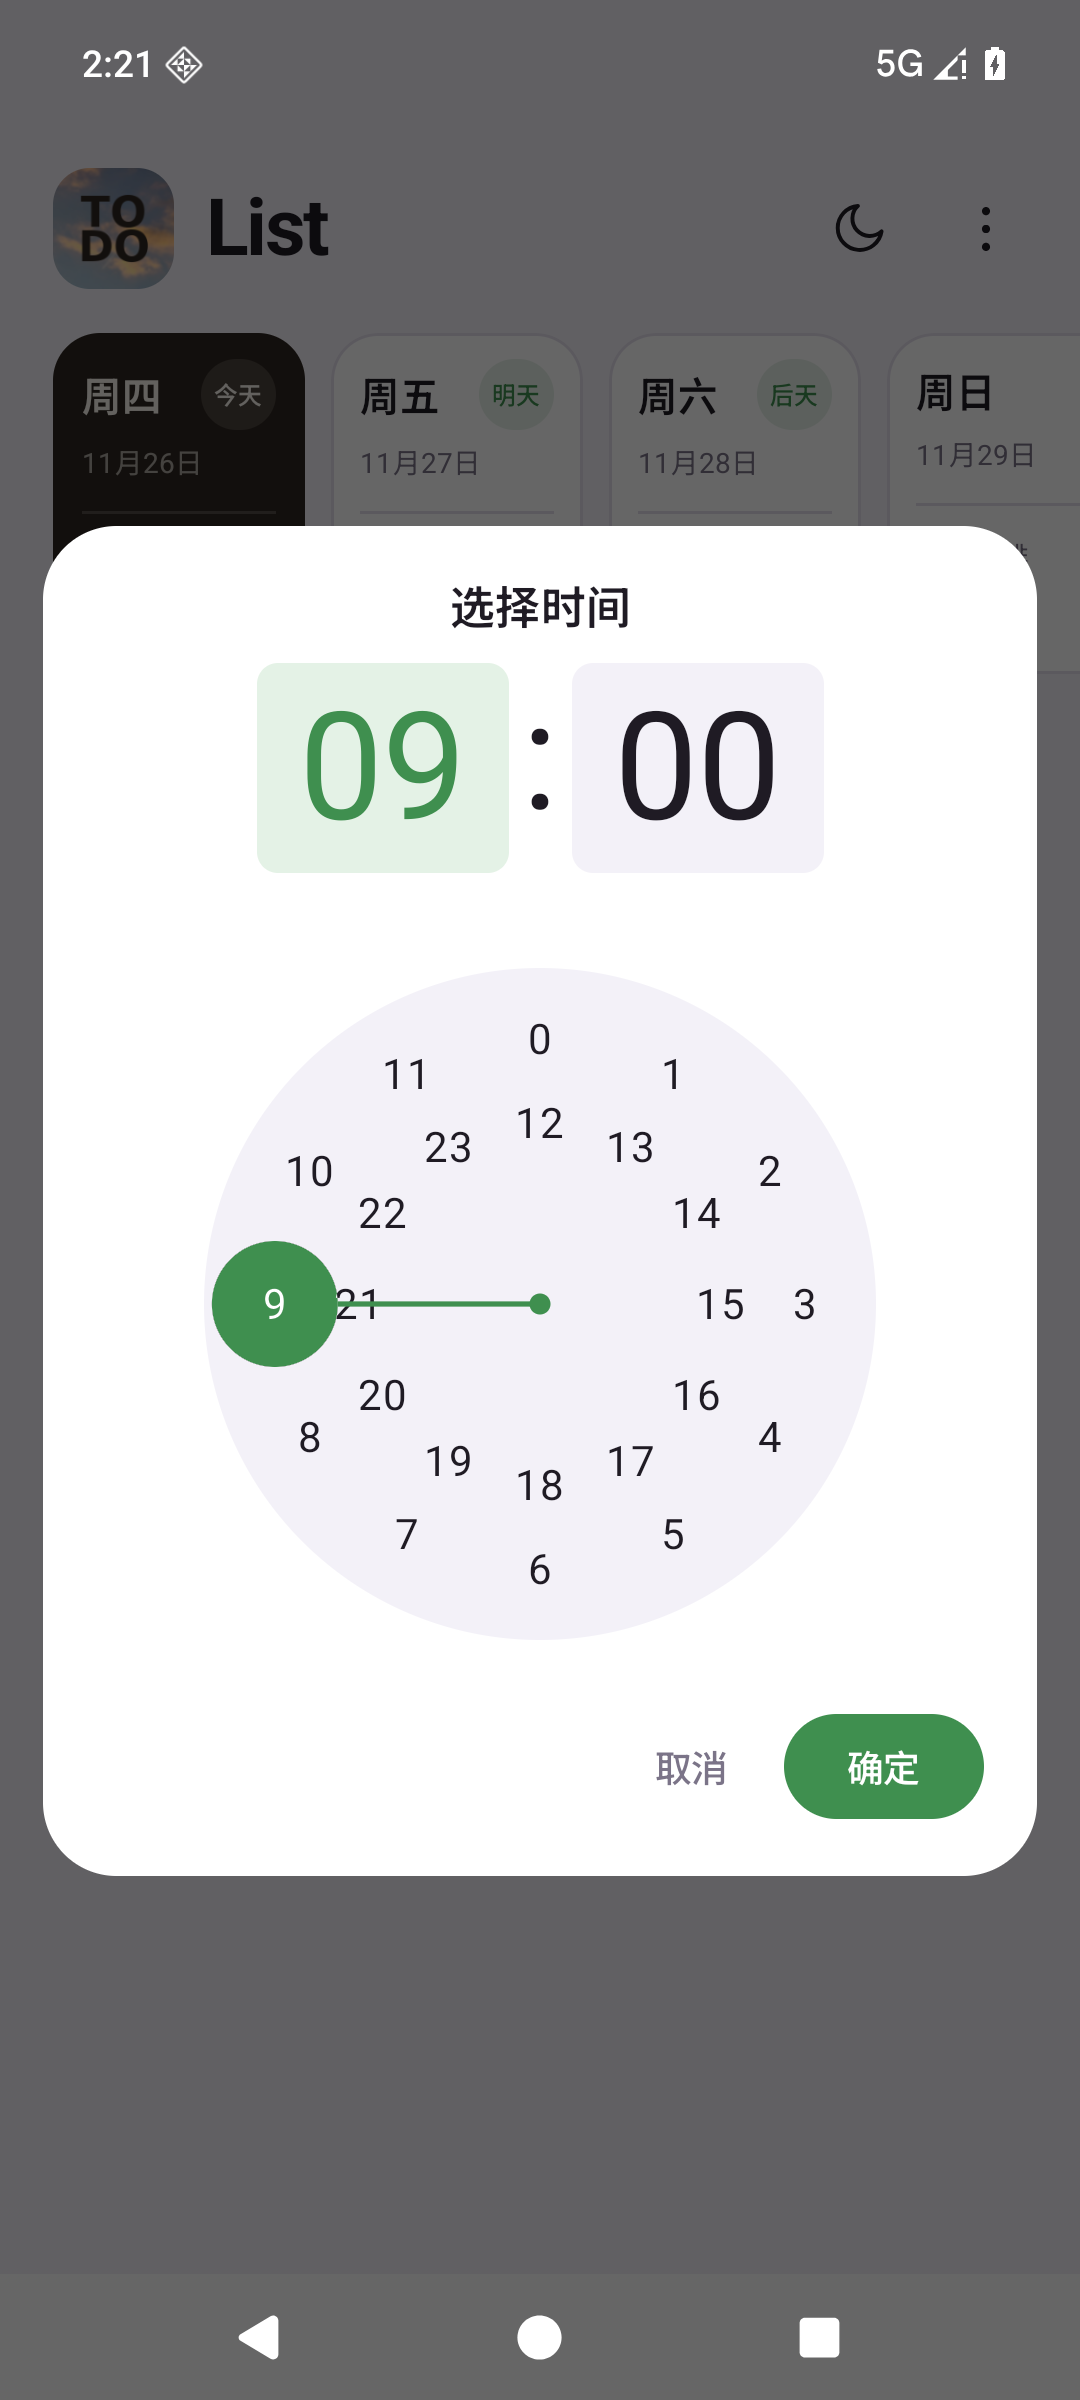
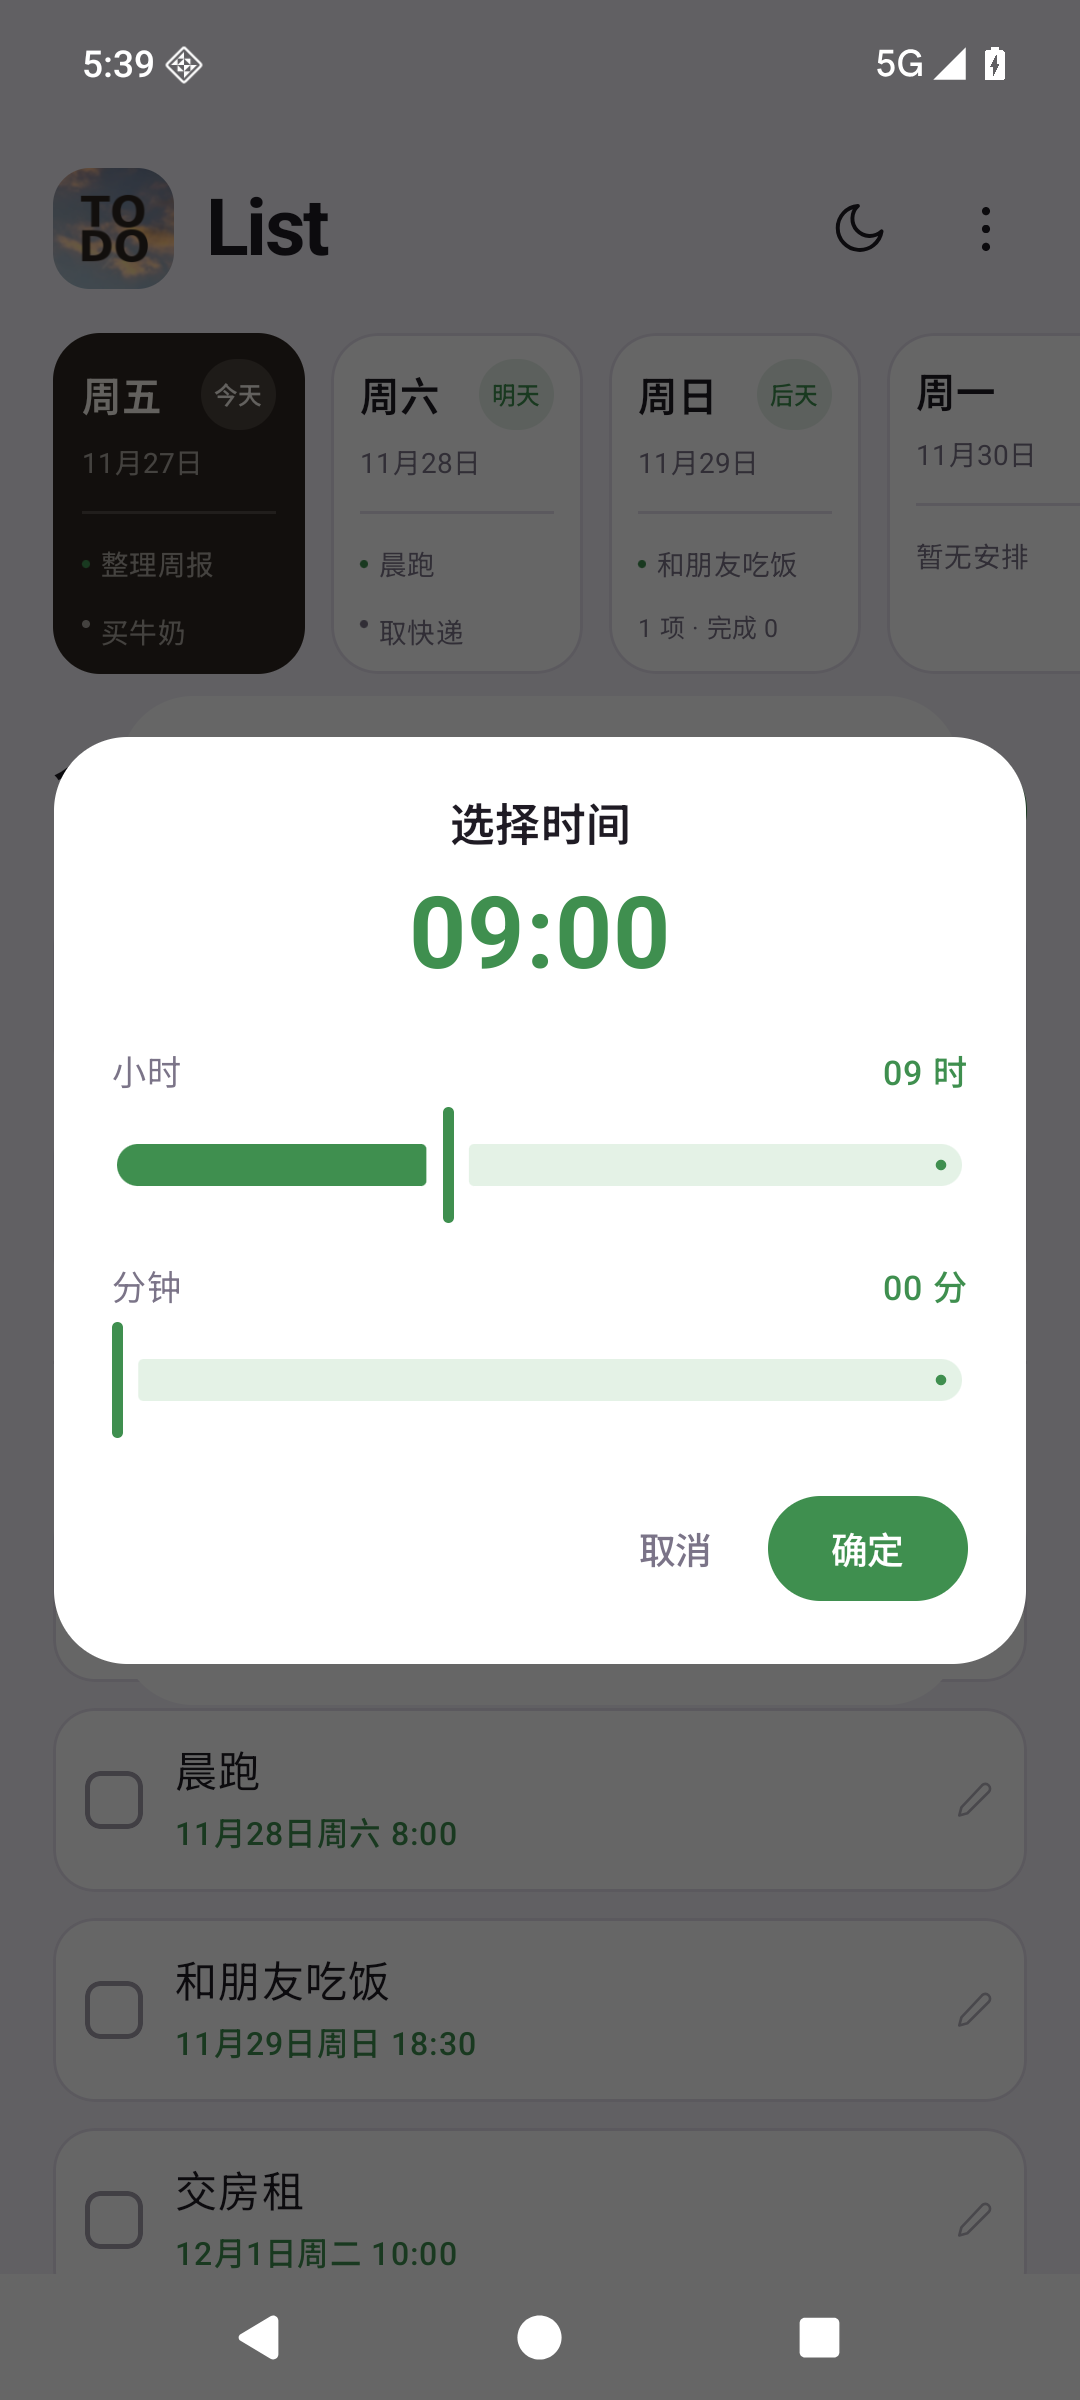
feat(ui): 时间选择改为小时/分钟滑动条，去掉未完成汇总区的说明文字（v1.2.2）

diff --git a/app/src/main/java/com/dswork/list/ui/HomeScreen.kt b/app/src/main/java/com/dswork/list/ui/HomeScreen.kt
@@ -31,15 +31,13 @@ import androidx.compose.material3.Button
 import androidx.compose.material3.ButtonDefaults
 import androidx.compose.material3.DropdownMenu
 import androidx.compose.material3.DropdownMenuItem
-import androidx.compose.material3.ExperimentalMaterial3Api
 import androidx.compose.material3.Icon
 import androidx.compose.material3.IconButton
 import androidx.compose.material3.OutlinedTextField
+import androidx.compose.material3.Slider
 import androidx.compose.material3.Surface
 import androidx.compose.material3.Text
 import androidx.compose.material3.TextButton
-import androidx.compose.material3.TimePicker
-import androidx.compose.material3.rememberTimePickerState
 import androidx.compose.runtime.Composable
 import androidx.compose.runtime.getValue
 import androidx.compose.runtime.mutableStateOf
@@ -69,6 +67,7 @@ import com.dswork.list.data.relativeLabel
 import com.dswork.list.data.weekdayCn
 import com.dswork.list.ui.theme.LocalListPalette
 import java.time.LocalDate
+import kotlin.math.roundToInt
 
 @Composable
 fun HomeScreen(
@@ -572,11 +571,6 @@ private fun UnfinishedHeader(count: Int) {
                 color = palette.textSecondary,
             )
         }
-        Text(
-            text = "今天起 7 天内所有没做完的事项（含选中的那天）",
-            fontSize = 11.5.sp,
-            color = palette.textSecondary,
-        )
     }
 }
 
@@ -702,7 +696,6 @@ private fun TodoEditorDialog(
     }
 }
 
-@OptIn(ExperimentalMaterial3Api::class)
 @Composable
 private fun ListTimePickerDialog(
     initialMinutes: Int,
@@ -710,11 +703,8 @@ private fun ListTimePickerDialog(
     onConfirm: (minutes: Int) -> Unit,
 ) {
     val palette = LocalListPalette.current
-    val state = rememberTimePickerState(
-        initialHour = initialMinutes / 60,
-        initialMinute = initialMinutes % 60,
-        is24Hour = true,
-    )
+    var hour by remember { mutableStateOf(initialMinutes / 60) }
+    var minute by remember { mutableStateOf(initialMinutes % 60) }
 
     Dialog(
         onDismissRequest = onDismiss,
@@ -723,10 +713,10 @@ private fun ListTimePickerDialog(
         Surface(
             shape = RoundedCornerShape(28.dp),
             color = palette.card,
-            modifier = Modifier.fillMaxWidth(0.92f),
+            modifier = Modifier.fillMaxWidth(0.9f),
         ) {
             Column(
-                modifier = Modifier.padding(horizontal = 20.dp, vertical = 18.dp),
+                modifier = Modifier.padding(horizontal = 22.dp, vertical = 20.dp),
                 horizontalAlignment = Alignment.CenterHorizontally,
             ) {
                 Text(
@@ -735,21 +725,32 @@ private fun ListTimePickerDialog(
                     fontWeight = FontWeight.SemiBold,
                     color = palette.textPrimary,
                 )
-                Spacer(Modifier.height(10.dp))
-                TimePicker(
-                    state = state,
-                    colors = androidx.compose.material3.TimePickerDefaults.colors(
-                        clockDialColor = palette.background,
-                        clockDialSelectedContentColor = Color.White,
-                        clockDialContentColor = palette.textPrimary,
-                        selectorColor = palette.accent,
-                        containerColor = palette.card,
-                        timeSelectorSelectedContainerColor = palette.accentSoft,
-                        timeSelectorSelectedContentColor = palette.accent,
-                        timeSelectorContainerColor = palette.background,
-                        timeSelectorContentColor = palette.textPrimary,
-                    ),
+                Spacer(Modifier.height(8.dp))
+                Text(
+                    text = "%02d:%02d".format(hour, minute),
+                    fontSize = 38.sp,
+                    fontWeight = FontWeight.Bold,
+                    color = palette.accent,
                 )
+                Spacer(Modifier.height(18.dp))
+
+                TimeSlider(
+                    label = "小时",
+                    valueText = "%02d 时".format(hour),
+                    value = hour,
+                    valueRange = 0f..23f,
+                    onChange = { hour = it },
+                )
+                Spacer(Modifier.height(10.dp))
+                TimeSlider(
+                    label = "分钟",
+                    valueText = "%02d 分".format(minute),
+                    value = minute,
+                    valueRange = 0f..59f,
+                    onChange = { minute = it },
+                )
+
+                Spacer(Modifier.height(16.dp))
                 Row(
                     modifier = Modifier.fillMaxWidth(),
                     horizontalArrangement = Arrangement.End,
@@ -762,7 +763,7 @@ private fun ListTimePickerDialog(
                     }
                     Spacer(Modifier.width(6.dp))
                     Button(
-                        onClick = { onConfirm(state.hour * 60 + state.minute) },
+                        onClick = { onConfirm(hour * 60 + minute) },
                         colors = ButtonDefaults.buttonColors(containerColor = palette.accent),
                     ) {
                         Text("确定")
@@ -770,5 +771,37 @@ private fun ListTimePickerDialog(
                 }
             }
         }
+    }
+}
+
+@Composable
+private fun TimeSlider(
+    label: String,
+    valueText: String,
+    value: Int,
+    valueRange: ClosedFloatingPointRange<Float>,
+    onChange: (Int) -> Unit,
+) {
+    val palette = LocalListPalette.current
+    Column(modifier = Modifier.fillMaxWidth()) {
+        Row(
+            modifier = Modifier.fillMaxWidth(),
+            verticalAlignment = Alignment.CenterVertically,
+        ) {
+            Text(label, fontSize = 13.sp, color = palette.textSecondary)
+            Spacer(Modifier.weight(1f))
+            Text(
+                text = valueText,
+                fontSize = 13.sp,
+                fontWeight = FontWeight.Medium,
+                color = palette.accent,
+            )
+        }
+        Slider(
+            value = value.toFloat(),
+            onValueChange = { onChange(it.roundToInt()) },
+            valueRange = valueRange,
+            modifier = Modifier.fillMaxWidth(),
+        )
     }
 }

diff --git a/README.md b/README.md
@@ -23,7 +23,7 @@
 **3. 当天待办事项**
 - 每项前有勾选框，勾选后整条变灰并加删除线；
 - 每条事项都带**完整时间信息**：`11月28日周六 8:00`（几月几号 + 星期 + 小时分钟），跨天也一眼看清；
-- 点击事项可打开编辑弹窗：改文字、改具体时间（小时/分钟，Material3 表盘选择器）、删除整条；
+- 点击事项可打开编辑弹窗：改文字、改具体时间（**小时 / 分钟两条滑动条**，带大号时间预览）、删除整条；
 - 列表严格按时间升序排列；
 - 右上角绿色 `+` 按钮新建事项，默认时间取「下一个整点」，也总是添加到当前选中的那一天；
 - 空列表有占位提示。
@@ -87,7 +87,7 @@ python make_icons.py \
 | 构建 | AGP 9.5.3 / Gradle 9.6.0 / JDK 17 字节码 |
 | SDK | compileSdk 37.2、targetSdk 37、minSdk 26（Android 8.0+） |
 | 依赖 | Compose BOM 2026.11.01 + activity-compose + core-ktx（无第三方网络库） |
-| 版本 | versionCode 4 / versionName 1.2.1 |
+| 版本 | versionCode 5 / versionName 1.2.2 |
 
 ## 目录结构
 
